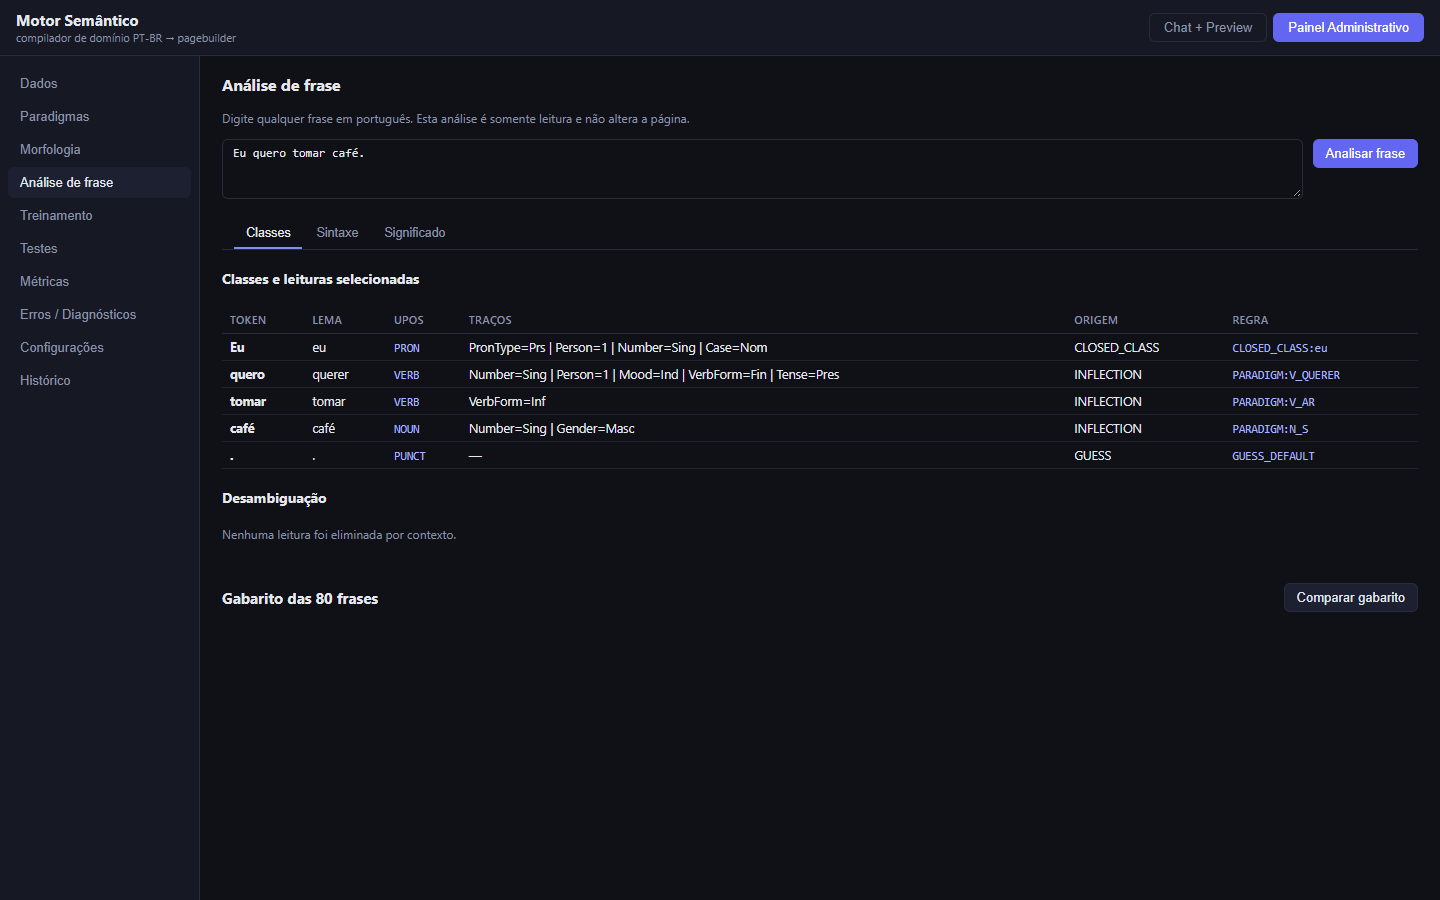
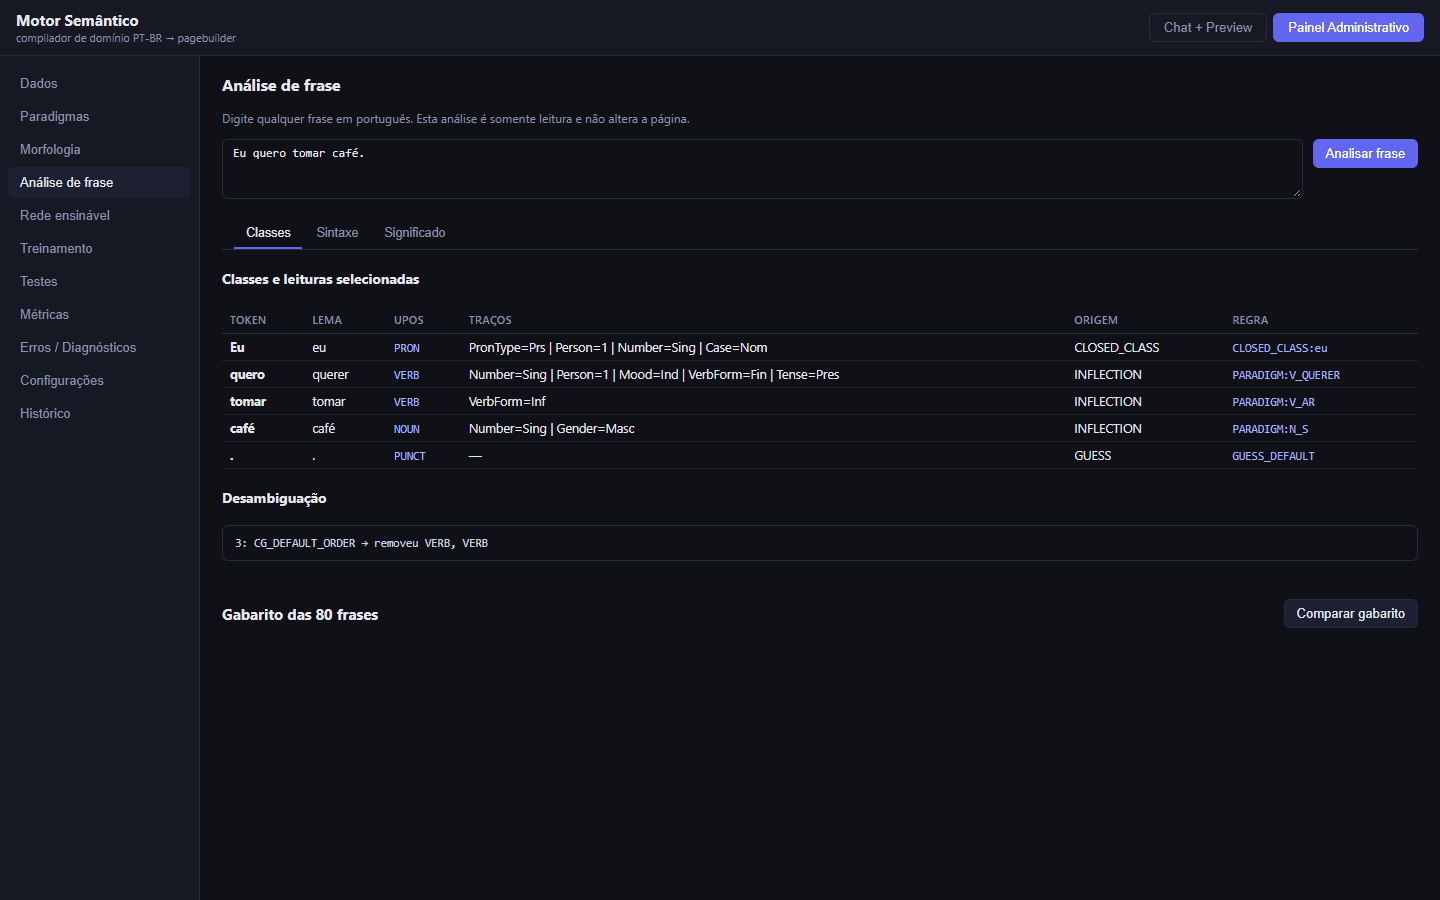
Amplia classes fechadas e rastreia desempate lexical

diff --git a/src/engine/SemanticEngine.ts b/src/engine/SemanticEngine.ts
@@ -98,19 +98,20 @@ export class SemanticEngine {
   /** Analisa uma frase do português sem executar operações no documento. */
   analyzeSentence(text: string): SentenceAnalysis {
     const tokenization = tokenizeSentence(text);
-    const tagger = new LanguageTagger(new LexicalAnalyzer(this.knowledgeBase.lexemes, this.knowledgeBase.languageRoots));
+    const lexical = new LexicalAnalyzer(this.knowledgeBase.lexemes, this.knowledgeBase.languageRoots);
+    const tagger = new LanguageTagger(lexical);
     const tagged = tagger.tagForms(tokenization.words.map((word) => word.form));
     for (const multiword of tokenization.multiwords) {
       const first = tagged.words[multiword.from - 1];
       const second = tagged.words[multiword.from];
-      const adposition = first?.readings.find((reading) => reading.upos === 'ADP');
-      const determiner = second?.readings.find((reading) => reading.upos === 'DET');
+      const adposition = first && lexical.analyzeSurface(first.form).find((reading) => reading.upos === 'ADP');
+      const determiner = second && lexical.analyzeSurface(second.form).find((reading) => reading.upos === 'DET');
       if (!adposition || !determiner) continue;
       for (const [word, selected, rule, index] of [
         [first, adposition, 'CONTRACTION_ADP', multiword.from - 1],
         [second, determiner, 'CONTRACTION_DET', multiword.from]
       ] as const) {
-        const removed = word.readings.filter((reading) => reading !== selected);
+        const removed = lexical.analyzeSurface(word.form).filter((reading) => reading !== selected);
         word.readings = [selected];
         word.selected = selected;
         if (removed.length) tagged.trace.push({ rule, index, removed });

diff --git a/tests/meaning-graph.test.ts b/tests/meaning-graph.test.ts
@@ -35,6 +35,19 @@ describe('grafo de significado', () => {
     expect(graph.attributes).toContainEqual(expect.objectContaining({ role: 'polite', value: '+' }));
   });
 
+  it('preserva o papel locativo depois de expandir uma contração', () => {
+    const graph = new SemanticEngine(createInitialKnowledgeBase()).analyzeSentence('Nós estudamos na escola.').meaningGraph;
+    const school = graph.nodes.find((node) => node.concept === 'escola');
+    expect(school).toBeDefined();
+    expect(graph.edges.some((edge) => edge.to === school!.id && edge.role === 'LOC')).toBe(true);
+  });
+
+  it('não cria pronome espúrio ao expandir crase temporal', () => {
+    const graph = new SemanticEngine(createInitialKnowledgeBase()).analyzeSentence('A lua brilha à noite.').meaningGraph;
+    expect(graph.nodes.some((node) => node.concept === 'ela')).toBe(false);
+    expect(graph.edges.some((edge) => edge.role === 'TIME' && graph.nodes.find((node) => node.id === edge.to)?.concept === 'noite')).toBe(true);
+  });
+
   it('reutiliza o nó do sujeito no complemento de controle', () => {
     const analysis = new SemanticEngine(createInitialKnowledgeBase()).analyzeSentence('Eu quero tomar café.');
     const graph = analysis.meaningGraph;

diff --git a/tests/language-closed-class.test.ts b/tests/language-closed-class.test.ts
@@ -22,6 +22,20 @@ const forms: Array<[string, string, string]> = [
 ];
 
 describe('classes fechadas e tokenização', () => {
+  it.each([
+    ['si', 'PRON'], ['comigo', 'PRON'], ['contigo', 'PRON'], ['lhes', 'PRON'],
+    ['meus', 'DET'], ['minhas', 'DET'], ['teu', 'DET'], ['tua', 'DET'],
+    ['nossos', 'DET'], ['estas', 'DET'], ['aqueles', 'DET'],
+    ['todas', 'DET'], ['alguns', 'DET'], ['nenhum', 'DET'], ['qualquer', 'DET'],
+    ['onze', 'NUM'], ['doze', 'NUM'], ['vinte', 'NUM'], ['trinta', 'NUM'], ['mil', 'NUM'],
+    ['desde', 'ADP'], ['contra', 'ADP'], ['após', 'ADP'], ['durante', 'ADP'],
+    ['porém', 'CCONJ'], ['portanto', 'CCONJ'], ['caso', 'SCONJ'],
+    ['agora', 'ADV'], ['sempre', 'ADV'], ['talvez', 'ADV'], ['aí', 'ADV'], ['ali', 'ADV'],
+    ['mais', 'ADV'], ['menos', 'ADV']
+  ] as Array<[string, string]>)('inclui forma fechada adicional %s', (form, upos) => {
+    expect(closedClassReadings(form).some((reading) => reading.upos === upos)).toBe(true);
+  });
+
   it.each(forms)('reconhece %s como %s/%s', (form, lemma, upos) => {
     expect(closedClassReadings(form)).toContainEqual(expect.objectContaining({ lemma, upos }));
   });

diff --git a/src/engine/language/Tagger.ts b/src/engine/language/Tagger.ts
@@ -42,6 +42,7 @@ export interface TaggingResult {
 }
 
 const rules = (rulesData as unknown as { rules: Rule[] }).rules;
+const fallbackRuleId = (rulesData as { fallbackRuleId?: string }).fallbackRuleId ?? 'CG_DEFAULT_ORDER';
 const copulas = new Set((copulaData as { lemmas: string[] }).lemmas);
 
 function readingMatches(reading: LexicalReading, target: { upos: string; feats?: Record<string, string>; lemmaClass?: string }): boolean {
@@ -94,6 +95,14 @@ export class LanguageTagger {
         word.selected = kept[0];
         trace.push({ rule: rule.id, index, removed });
       }
+    }
+    for (let index = 0; index < words.length; index++) {
+      const word = words[index];
+      if (word.readings.length < 2) continue;
+      const removed = word.readings.slice(1);
+      word.readings = [word.readings[0]];
+      word.selected = word.readings[0];
+      trace.push({ rule: fallbackRuleId, index, removed });
     }
     return { words, trace };
   }

diff --git a/tests/language-tagger.test.ts b/tests/language-tagger.test.ts
@@ -56,4 +56,11 @@ describe('desambiguação de classe por regras', () => {
     expect(tagged.words[0].selected.upos).toBe('DET');
     expect(tagged.trace.some((event) => event.rule && event.removed.length)).toBe(true);
   });
+
+  it('registra REMOVE e a escolha determinística por ordem', () => {
+    const noun = tagger.tagForms(['O', 'corte', '.']);
+    expect(noun.trace.some((event) => event.rule === 'CG_REMOVE_VERB_AFTER_DET' && event.removed.some((reading) => reading.upos === 'VERB')), JSON.stringify(noun)).toBe(true);
+    const ambiguous = tagger.tagForms(['a']);
+    expect(ambiguous.trace.some((event) => event.rule === 'CG_DEFAULT_ORDER' && event.removed.length > 0)).toBe(true);
+  });
 });

diff --git a/RELATORIO_SINTAXE.md b/RELATORIO_SINTAXE.md
@@ -47,7 +47,7 @@ As 80 frases do gabarito contêm 431 tokens para UPOS e dependências; as 20 ext
 | Grafo exato (F1 = 1) | 62/80 (77,5%) | 12/20 (60%) |
 | Sentido esperado presente | 74/80 (92,5%) | 19/20 (95%) |
 
-Fase 1: os três casos de ruído, as dez palavras de radical latino fora dos dados e os dois comandos de domínio passaram. Fase 2: 40 formas de classe fechada, seis contrações e os demais casos somam 49 testes aprovados. Fase 3: **258/258** casos de flexão. Fase 4: os limiares de UPOS foram atingidos. Fase 5: os limiares de UAS, LAS, sujeito e predicado foram atingidos. Fase 6: os três limiares de grafo foram atingidos **no gabarito**; nas extras, grafos exatos ficaram em 60%, sem limiar exigido nessa fase. Fase 8: `surfar` gerou 53 formas e 11 hipóteses derivacionais na vista de rede; `surfista` aparece como `AGENT_OF(surfar)`.
+Fase 1: os três casos de ruído, as dez palavras de radical latino fora dos dados e os dois comandos de domínio passaram. Fase 2: 40 formas iniciais e 34 formas adicionais de classe fechada, seis contrações e os demais casos somam 83 testes aprovados. Fase 3: **258/258** casos de flexão. Fase 4: os limiares de UPOS foram atingidos; `SELECT`, `REMOVE` e desempate por ordem são rastreados. Fase 5: os limiares de UAS, LAS, sujeito e predicado foram atingidos. Fase 6: os três limiares de grafo foram atingidos **no gabarito**; nas extras, grafos exatos ficaram em 60%, sem limiar exigido nessa fase. Fase 8: `surfar` gerou 53 formas e 11 hipóteses derivacionais na vista de rede; `surfista` aparece como `AGENT_OF(surfar)`.
 
 ## Falhas restantes e causas
 
@@ -73,6 +73,6 @@ No Chrome local, `http://127.0.0.1:5173/`, foram verificados: chat → “Eu que
 
 ## Verificação final
 
-Saída final observada após o relatório, o ajuste de `AUX` e a correção de concordância: `npm test` → **38 arquivos aprovados, 509 testes aprovados (509)**, sem falhas; `npx tsc --noEmit` → código de saída `0`; `npm run build` → código de saída `0`, 124 módulos transformados, bundle principal de 1.208,16 kB; `git diff --check` → código de saída `0`. O Vite emitiu aviso de chunk acima de 500 kB; o limite não foi afrouxado.
+Saída final observada após a ampliação das classes fechadas e o trace de desambiguação: `npm test` → **38 arquivos aprovados, 546 testes aprovados (546)**, sem falhas; `npx tsc --noEmit` → código de saída `0`; `npm run build` → código de saída `0`, 124 módulos transformados, bundle principal de 1.211,98 kB. O Vite emitiu aviso de chunk acima de 500 kB; o limite não foi afrouxado.
 
 Comandos do construtor preservados, exceto a recuperação derivacional avaliativa solicitada (`DERIVED_MATCH`); a suíte antiga de 413 testes permaneceu verde. Não houve instalação de dependências de runtime, uso de rede em tempo de execução, `eval`, `new Function` ou aleatoriedade na camada nova.
